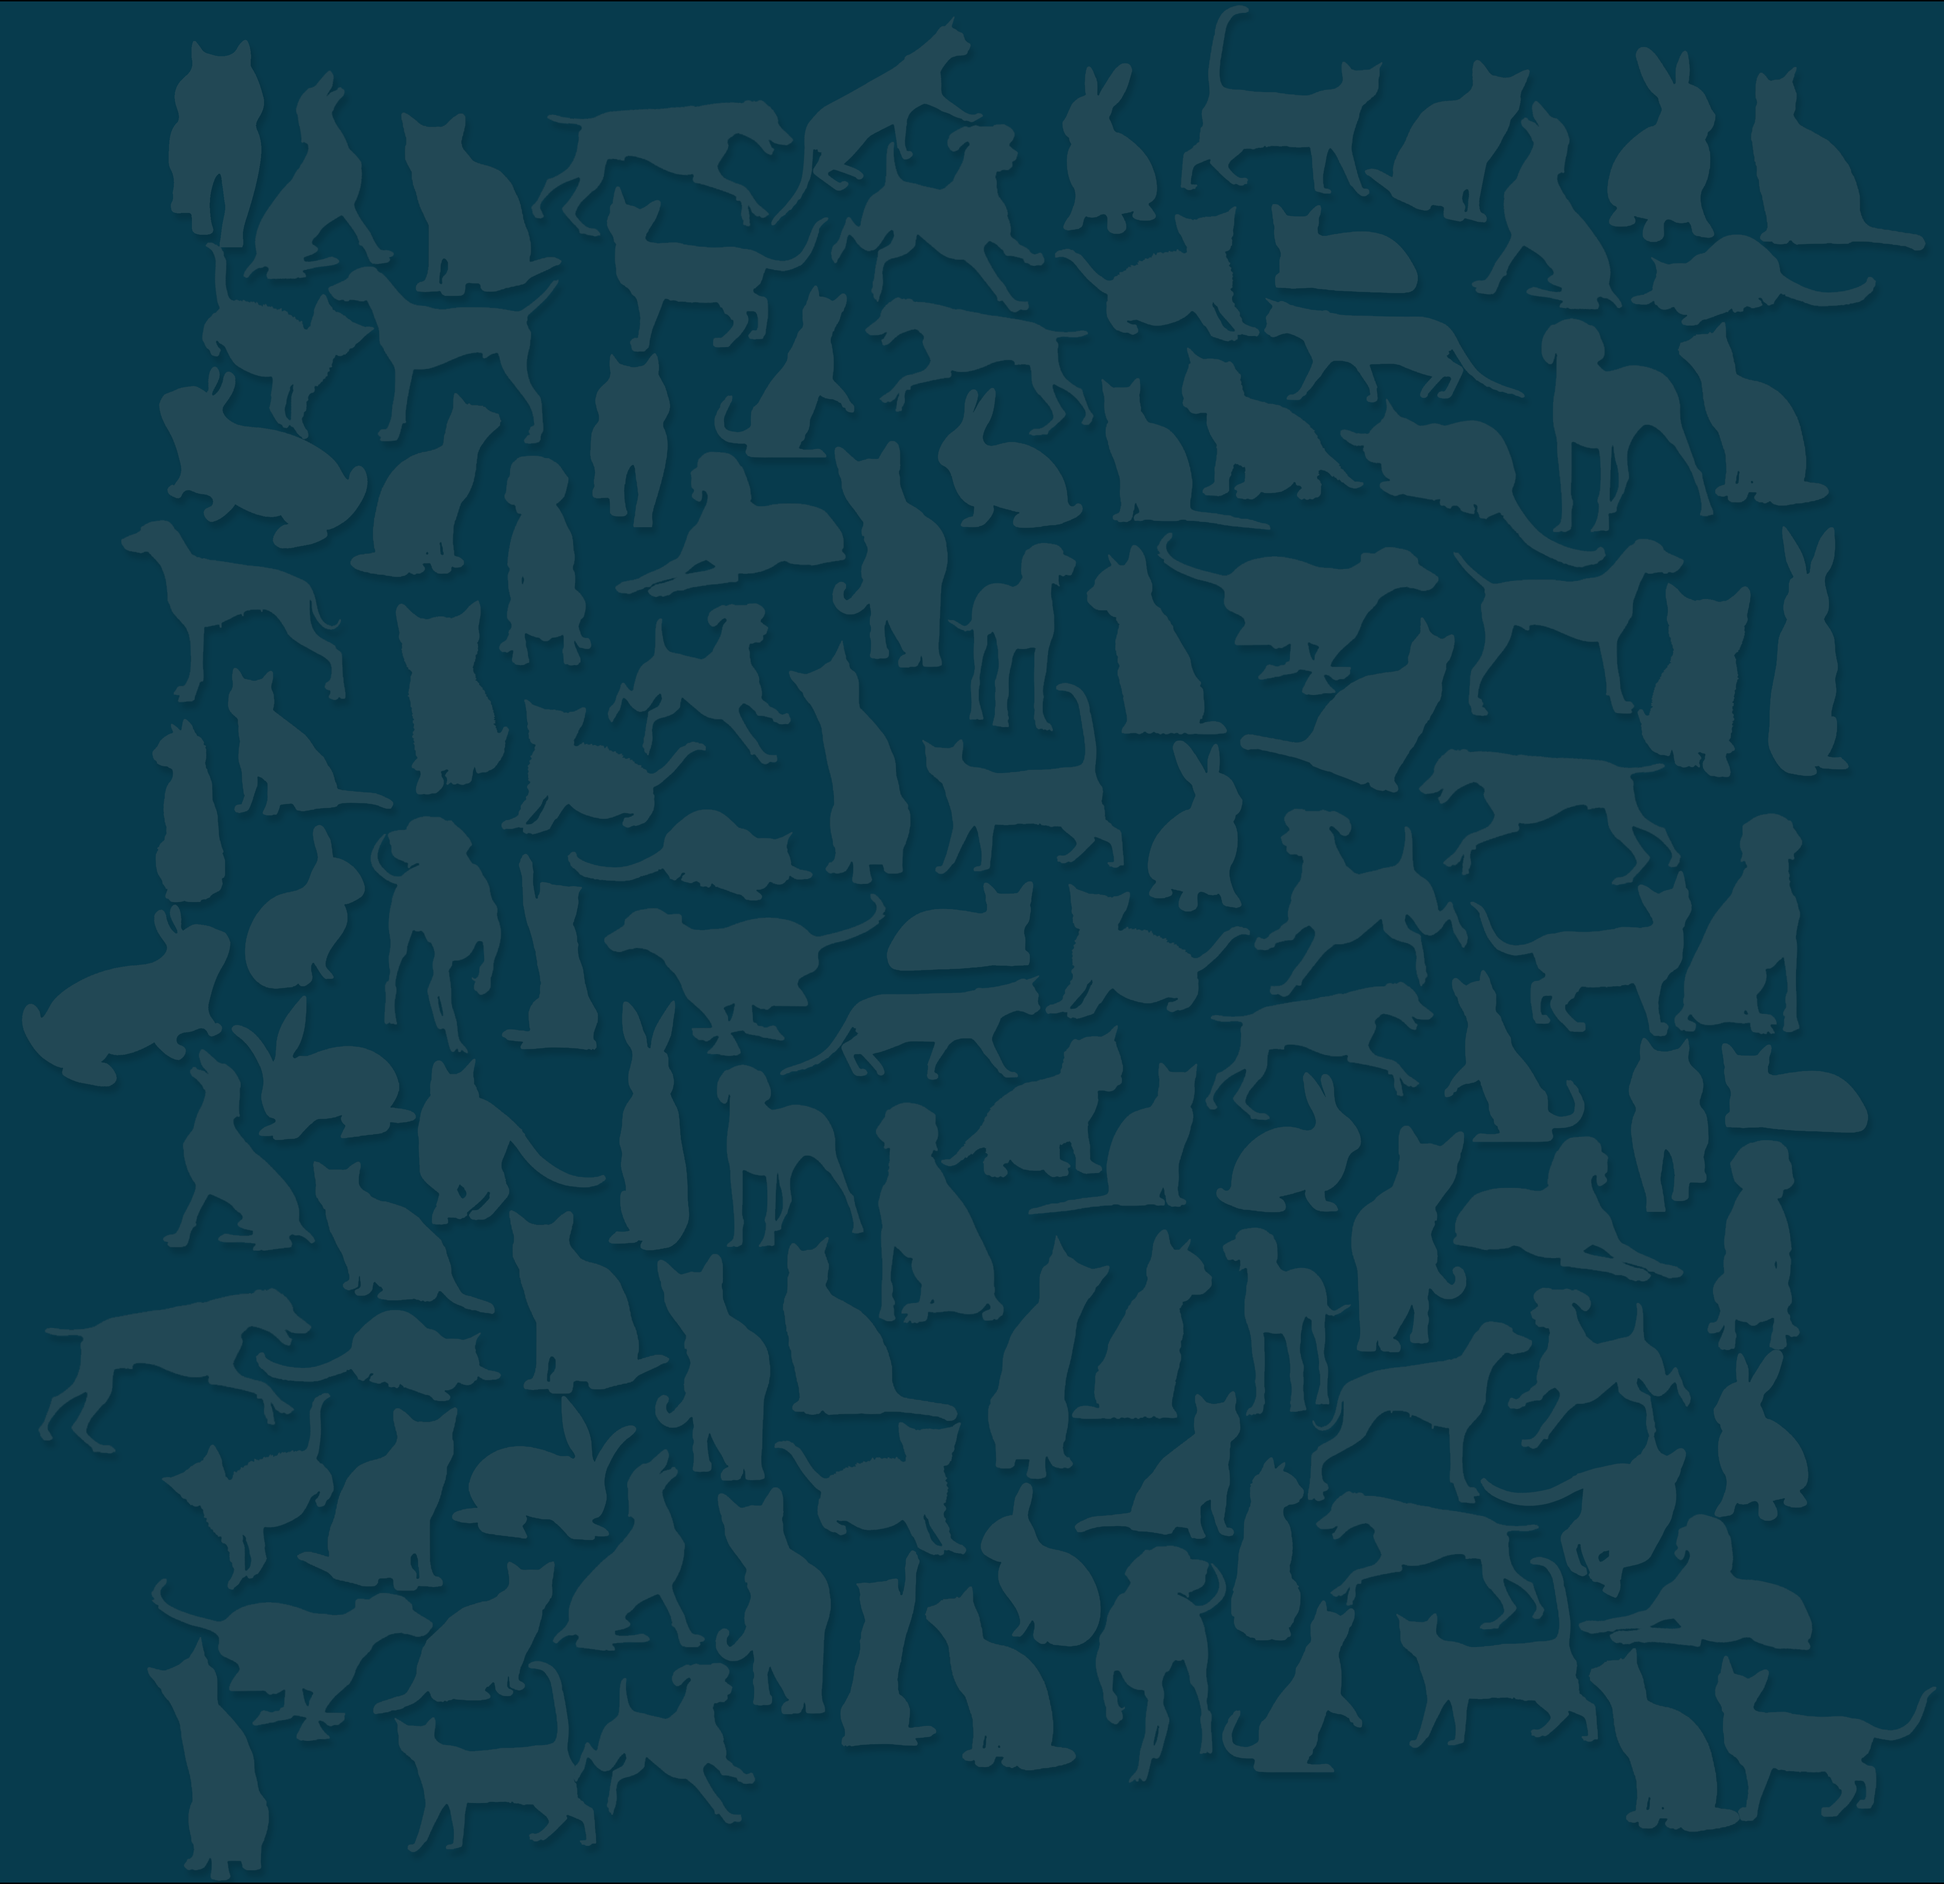
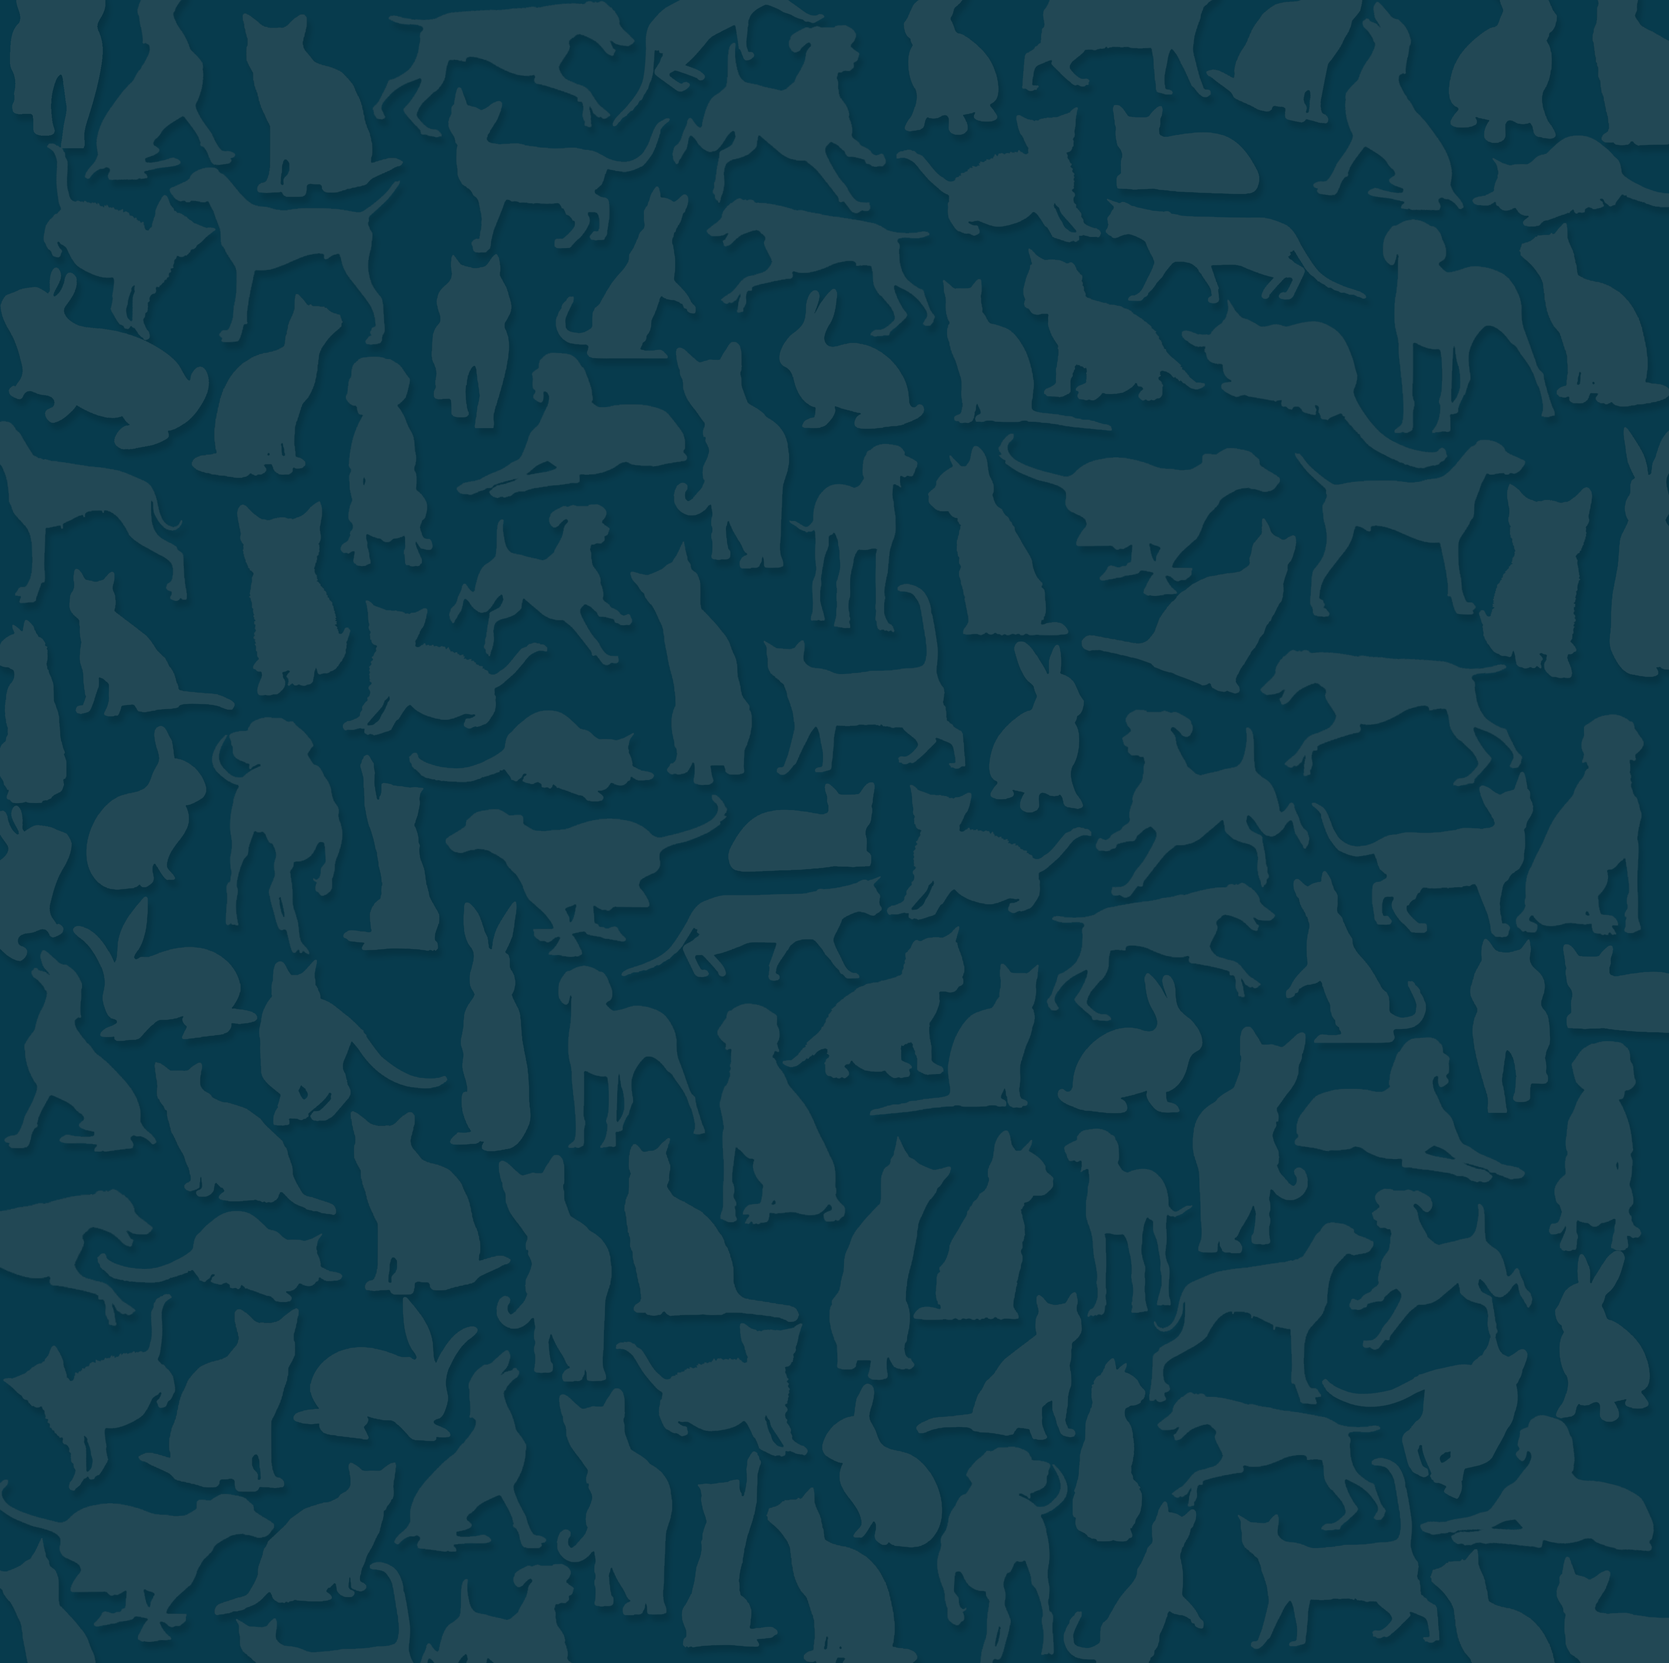
sync

diff --git a/src/components/items/TestItem.vue b/src/components/items/TestItem.vue
@@ -135,13 +135,14 @@ export default {
             visibility: hidden;
             position: absolute;
             z-index: 1;
-            box-shadow: 0px 0px 10px -5px var(--shadow-color);
+            box-shadow: 0px 0px 15px 0px white;
             background-color: white;
             border-radius: 5px;
             padding: 5px;
             width: 200px;
             left: 100px;
-            top: -2px;
+            top: -5px;
+            border: 1px inset #094567;
         }
 
         .param-description::before {
@@ -152,7 +153,7 @@ export default {
             margin-left: -20px;
             border-width: 10px;
             border-style: solid;
-            border-color: transparent white transparent transparent;
+            border-color: transparent var(--dark-blue) transparent transparent;
 
         }
 

diff --git a/src/views/LoginView.vue b/src/views/LoginView.vue
@@ -23,7 +23,7 @@ export default {
 <style lang="scss" scoped>
 .login-view {
     background-image: url('../assets/backgrounds/collageDS.png');
-    background-size: 2000px;
+    background-size: cover;
     background-position: center;
     display: flex;
     flex-direction: column;

diff --git a/src/views/RegisterView.vue b/src/views/RegisterView.vue
@@ -96,7 +96,7 @@ export default {
         .logo {
             width: 30vw;
             margin-left: 8vw;
-            filter: drop-shadow(0px 5px 10px rgb(49, 53, 60));
+            filter: drop-shadow(3px 2px 2px rgb(49, 53, 60));
             margin-top: auto;
         }
 

diff --git a/src/views/TestsView.vue b/src/views/TestsView.vue
@@ -110,7 +110,7 @@ export default {
         height: calc(100vh - var(--header-total-height) - 40px);
         width: 100%;
         overflow: scroll;
-        animation: fade-in 1s forwards;
+        animation: fade-in .4s forwards;
 
         @keyframes fade-in {
 
